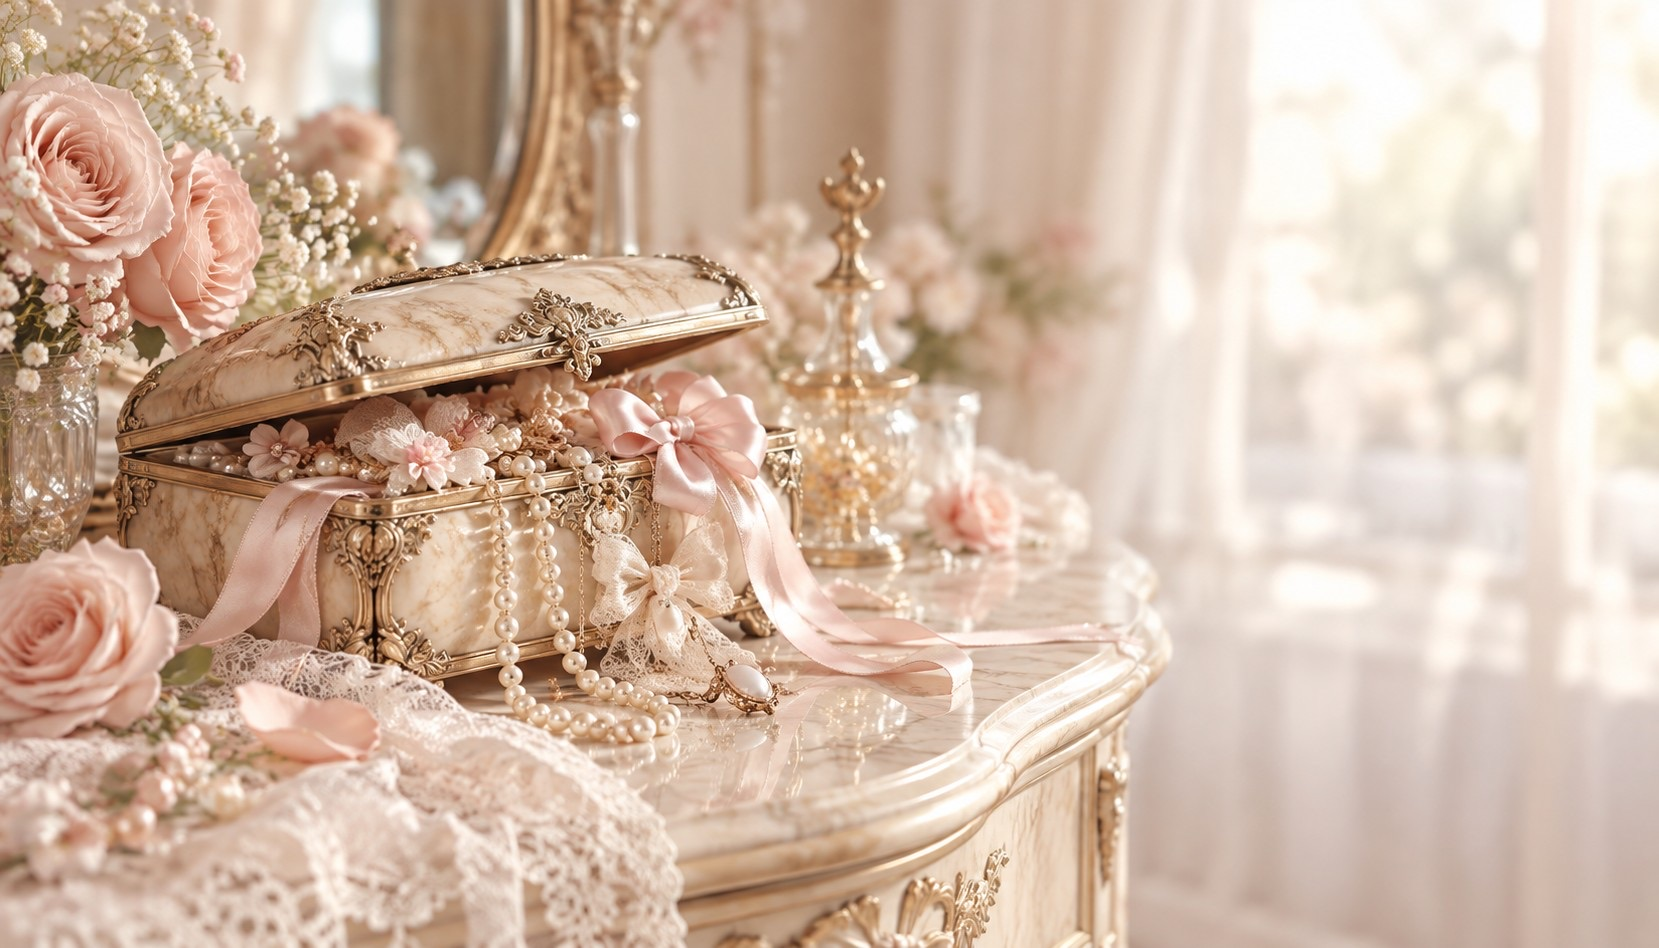
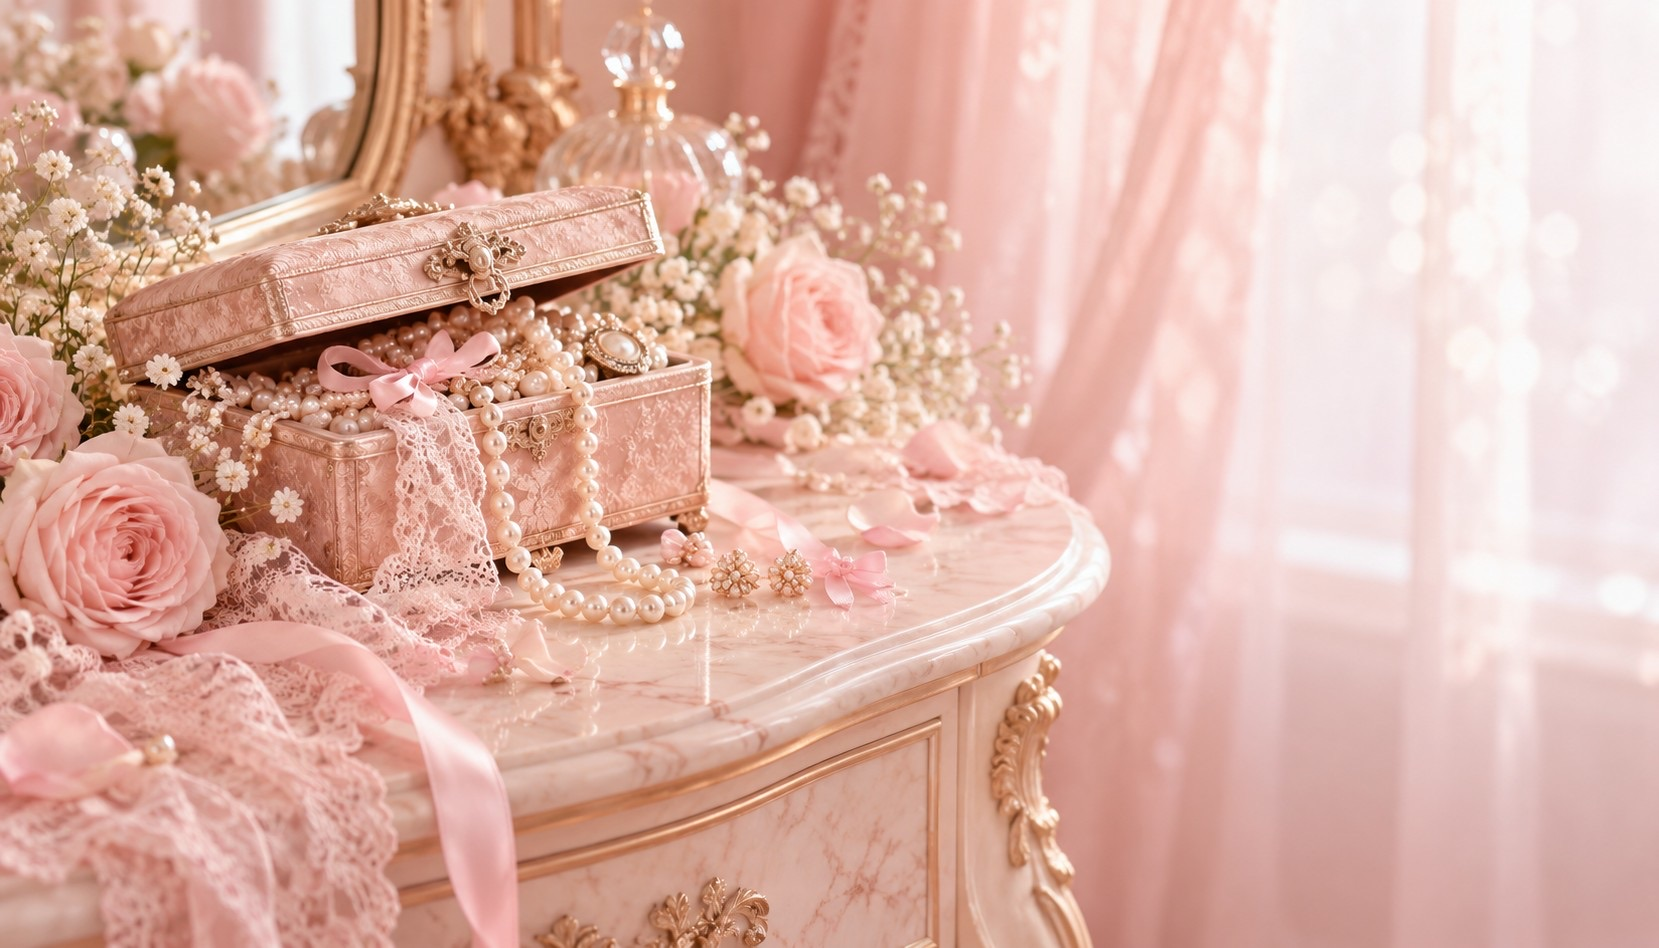
Add files via upload

diff --git a/index.html b/index.html
@@ -11,15 +11,15 @@
 <meta property="og:url" content="https://maisondecharlotte.github.io/" />
 <meta property="og:type" content="website" />
 <link rel="canonical" href="https://maisondecharlotte.github.io/" />
-<meta name="theme-color" content="#F6EEE6" />
+<meta name="theme-color" content="#FCF1F3" />
 <link rel="preconnect" href="https://fonts.googleapis.com" />
 <link rel="preconnect" href="https://fonts.gstatic.com" crossorigin />
 <link href="https://fonts.googleapis.com/css2?family=Cormorant+Garamond:ital,wght@0,300;0,400;0,500;1,300;1,400&family=Shippori+Mincho:wght@400;500&display=swap" rel="stylesheet" />
 <style>
 :root{
-  --ivory:#FBF6EF; --milk:#FFFBF6; --pinkbeige:#F2E3DA; --champbeige:#EFE2D0;
-  --dusty:#C99A9A; --rosebeige:#D8B4A6; --palepink:#F6E2E1;
-  --gold:#BFA06A; --goldsoft:#D9C39A; --ink:#5E4A45; --inksoft:#8A7470;
+  --ivory:#FCF1F3; --milk:#FFF8FA; --pinkbeige:#F6E1E7; --champbeige:#F1DCE2;
+  --dusty:#C98C9B; --rosebeige:#DDA9B6; --palepink:#F9E3EA;
+  --gold:#BFA06A; --goldsoft:#D9C39A; --ink:#6A4A52; --inksoft:#8E7078;
 }
 *{box-sizing:border-box;margin:0;padding:0}
 html{scroll-behavior:smooth}
@@ -32,7 +32,7 @@ p{font-size:15px}
 @media(max-width:640px){p{font-size:14px}}
 
 /* header */
-header{position:fixed;inset:0 0 auto 0;z-index:20;display:flex;justify-content:space-between;align-items:center;padding:16px 24px;background:linear-gradient(to bottom,rgba(251,246,239,.92),rgba(251,246,239,0));}
+header{position:fixed;inset:0 0 auto 0;z-index:20;display:flex;justify-content:space-between;align-items:center;padding:16px 24px;background:linear-gradient(to bottom,rgba(252,241,243,.92),rgba(252,241,243,0));}
 header .logo{font-family:"Cormorant Garamond",serif;font-size:20px;letter-spacing:.18em;color:var(--ink)}
 header nav a{font-family:"Cormorant Garamond",serif;font-size:14px;letter-spacing:.2em;margin-left:22px;color:var(--inksoft)}
 @media(max-width:640px){header nav{display:none}}
@@ -40,7 +40,7 @@ header nav a{font-family:"Cormorant Garamond",serif;font-size:14px;letter-spacin
 /* hero */
 .hero{position:relative;min-height:100svh;display:flex;align-items:center;justify-content:flex-end;overflow:hidden}
 .hero .bg{position:absolute;inset:0;background:url(hero.jpg) center/cover no-repeat;transform:scale(1.04);animation:breathe 14s ease-in-out infinite alternate}
-.hero .veil{position:absolute;inset:0;background:linear-gradient(90deg,rgba(251,246,239,0) 30%,rgba(251,246,239,.78) 62%,rgba(251,246,239,.9) 100%)}
+.hero .veil{position:absolute;inset:0;background:linear-gradient(90deg,rgba(252,241,243,0) 30%,rgba(252,241,243,.78) 62%,rgba(252,241,243,.9) 100%)}
 .hero .copy{position:relative;text-align:center;padding:0 7vw 0 24px;max-width:560px}
 .hero .crown{width:38px;margin:0 auto 18px;opacity:.9}
 .hero h1{font-weight:400;font-size:clamp(34px,5vw,58px);line-height:1.2;color:var(--ink)}
@@ -50,12 +50,12 @@ header nav a{font-family:"Cormorant Garamond",serif;font-size:14px;letter-spacin
 @keyframes breathe{to{transform:scale(1.1)}}
 @media(max-width:760px){
   .hero{align-items:flex-end;justify-content:center}
-  .hero .veil{background:linear-gradient(180deg,rgba(251,246,239,0) 25%,rgba(251,246,239,.88) 60%,rgba(251,246,239,.96) 100%)}
+  .hero .veil{background:linear-gradient(180deg,rgba(252,241,243,0) 25%,rgba(252,241,243,.88) 60%,rgba(252,241,243,.96) 100%)}
   .hero .copy{padding:0 20px 70px}
 }
 
 /* buttons */
-.btn{display:inline-block;padding:14px 36px;border:1px solid var(--gold);color:var(--ink);font-size:14px;letter-spacing:.2em;background:rgba(255,251,246,.7);transition:.4s}
+.btn{display:inline-block;padding:14px 36px;border:1px solid var(--gold);color:var(--ink);font-size:14px;letter-spacing:.2em;background:rgba(255,248,250,.7);transition:.4s}
 .btn:hover{background:var(--gold);color:var(--milk)}
 .btn.solid{background:var(--dusty);border-color:var(--dusty);color:var(--milk)}
 .btn.solid:hover{background:var(--rosebeige);border-color:var(--rosebeige)}
@@ -133,7 +133,7 @@ section{padding:120px 0}
 footer{background:var(--champbeige);text-align:center;padding:56px 24px 40px;font-size:12px;color:var(--inksoft)}
 footer .logo{font-family:"Cormorant Garamond",serif;font-size:22px;letter-spacing:.2em;color:var(--ink)}
 footer .fl{margin:18px 0}
-footer .fl a{margin:0 12px;border-bottom:1px solid rgba(94,74,69,.25)}
+footer .fl a{margin:0 12px;border-bottom:1px solid rgba(106,74,82,.25)}
 
 /* reveal */
 .rv{opacity:0;transform:translateY(18px);transition:1.2s ease}
